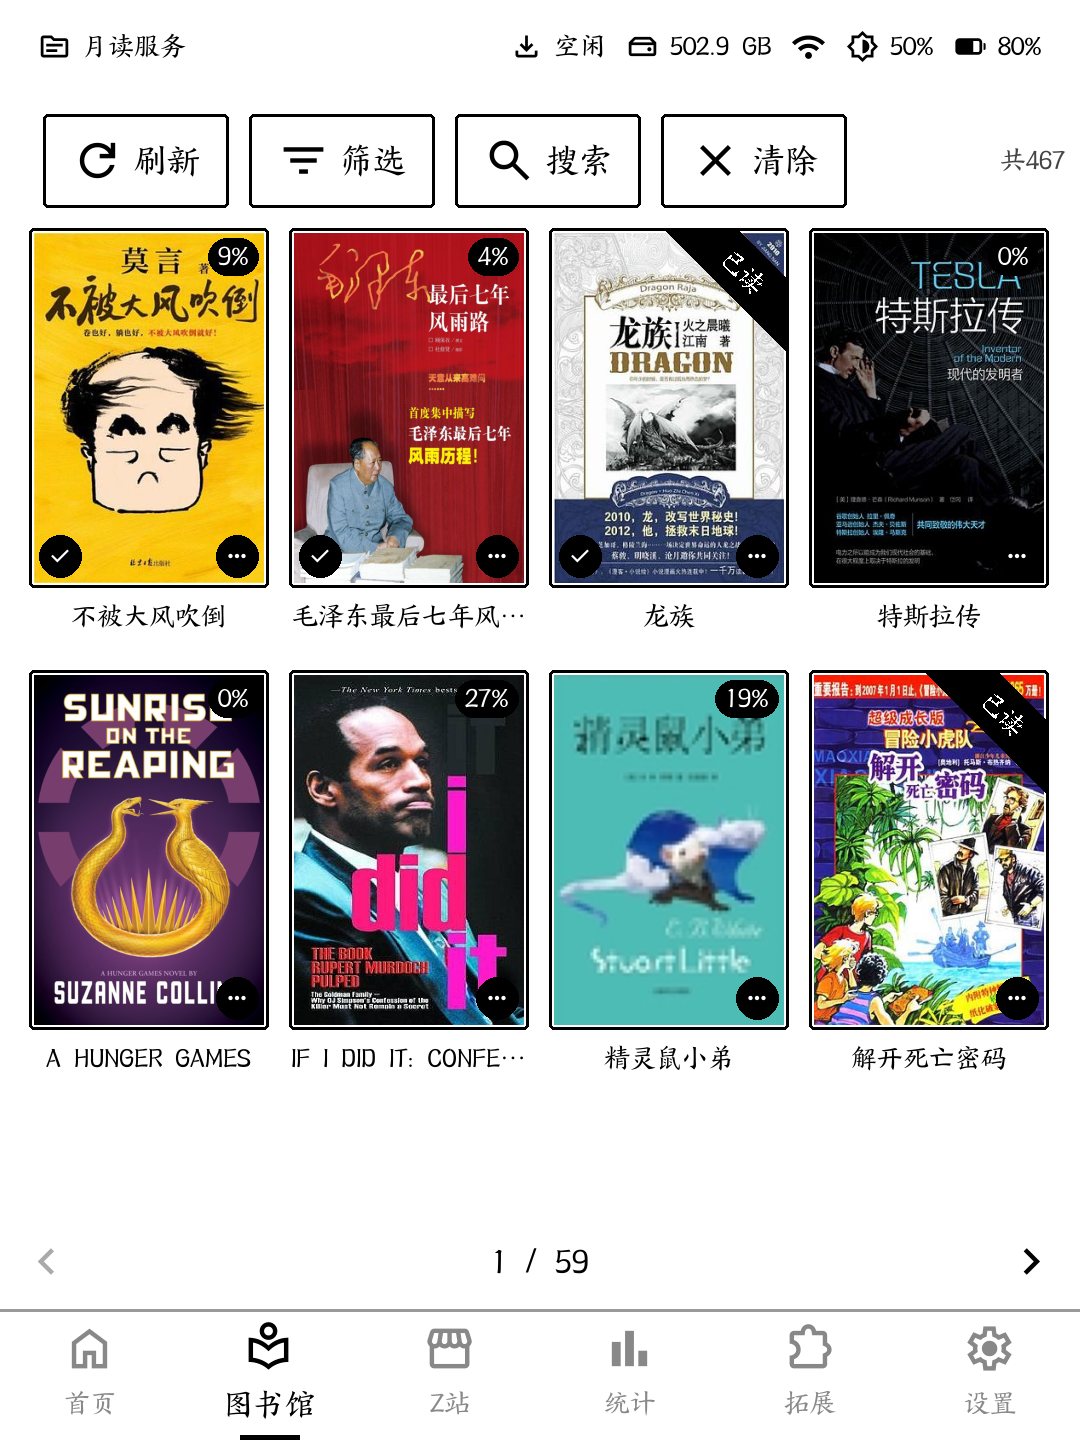
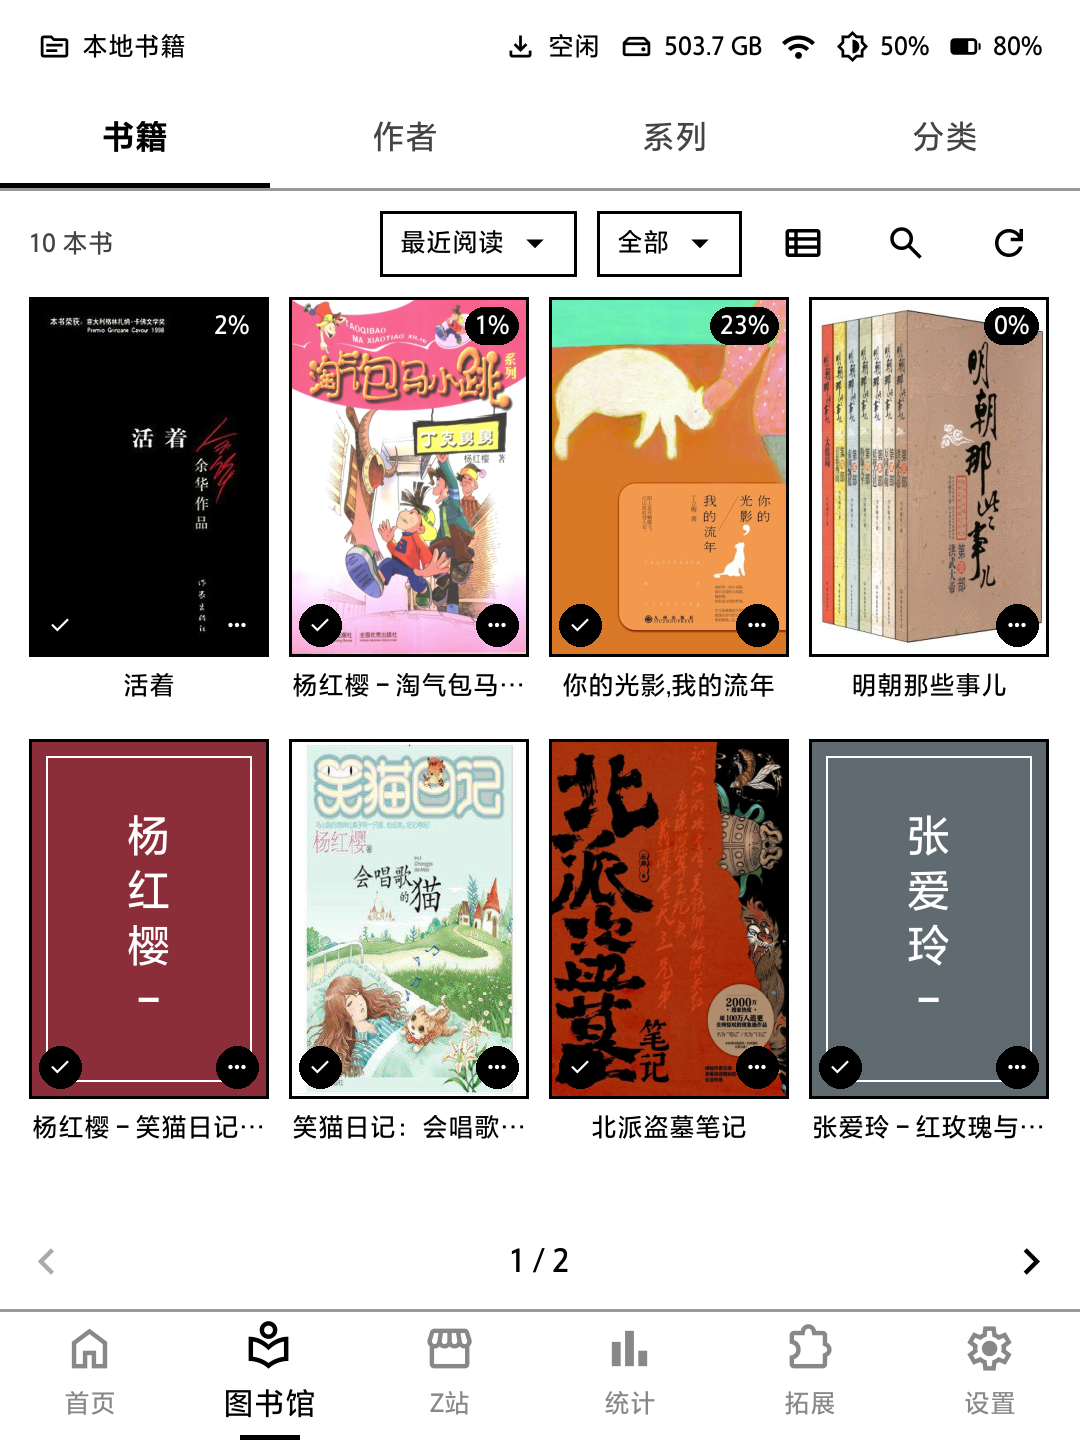
:memo: (ui): 优化图书馆和书籍详情页的界面布局与交互
重构图书馆页面为分页签设计，支持书籍/作者/系列/分类切换，书籍页提供封面网格与列表视图切换，并增强工具条的排序与筛选功能；
书籍详情页调整为左右分栏布局，左侧置放大封面，右侧集中展示书名、作者、出版信息、评分与字数等元数据，同步优化阅读指标、进度操作及编辑菜单入口。

diff --git a/README.md b/README.md
@@ -85,10 +85,10 @@
 月读提供由首页、图书馆、书城、统计和设置组成的全屏桌面。底栏的「Z站」「OPDS」在启用对应书城后出现，「拓展」在设置里打开后出现，统计按当前数据源能力出现。
 
 - **首页组件：** 当前阅读、最近阅读列表、最近阅读卡片、时钟、天气预报、每小时天气预报、时间天气、阅读统计、阅读热力图、一言、书摘、历史上的今天和热点新闻。组件可添加、移动、调整高度；第三方书源也能追加自己的组件。
-- **图书馆：** 使用本地 SQLite 索引，支持关键词搜索、分页浏览；筛选面板分两页，第一页是数据源、分类和系列，第二页是阅读状态、「已下载」和排序。
+- **图书馆：** 使用本地 SQLite 索引，顶部按书籍、作者、系列、分类分页签浏览；书籍页可在封面网格与列表间切换，工具条带排序（最近添加、最近阅读、书名、作者）与筛选（未读、已读、已下载，混合模式再加数据源）下拉，支持关键词搜索。
 - **顶栏：** 时钟、当前数据源、后台任务、剩余内存、剩余存储、Wi-Fi、亮度、电池，装了蓝牙守护进程时还有蓝牙；各项可单独开关。
 - **后台任务：** 书城下载、全本缓存、书架同步、词典与词库下载等耗时操作进入后台队列；顶栏显示进行中 / 未结束数量，点开可查看、取消任务。断网或休眠时可续跑的任务会自动等待，恢复后继续。
-- **书籍详情：** 封面、作者、简介、阅读进度、阅读统计、预计剩余时间和预计读完日期，以及当前数据源允许的操作。按章阅读的书可选择缓存范围（全本、从当前进度到结尾、往后 10 / 20 / 50 / 100 章）；已完整离线的在线书可单独「清理缓存」，保留元数据、进度和笔记。
+- **书籍详情：** 左侧大封面，右侧书名、作者、出版信息、评分与字数，下接「开始 / 继续阅读」与进度；中间一排阅读指标（累计时长、已读页数、上次阅读、预计读完），点开看完整阅读记录；再往下是简介与书籍信息。编辑、刮削、下载、清理缓存、已读、删除等当前数据源允许的操作收在右上角「⋯」菜单。按章阅读的书可选择缓存范围（全本、从当前进度到结尾、往后 10 / 20 / 50 / 100 章）；已完整离线的在线书可单独「清理缓存」，保留元数据、进度和笔记。
 - **底栏拓展：** 把其它 KOReader 插件的主菜单入口集中放进底栏「拓展」格，可逐个选择显示哪些。
 - 桌面字号、界面缩放和封面网格列数均可调整，布局面向墨水屏和触控操作；弹出面板和菜单时可用网点「背景遮罩」压暗背景（默认开）。
 - **自动夜间模式：** 按固定时间或当地日出日落切换；只在昼夜交替那一刻切换，中途手动切换不会被立刻改回。日出日落离线计算，经纬度在选择该模式时经天气接口定位一次。
